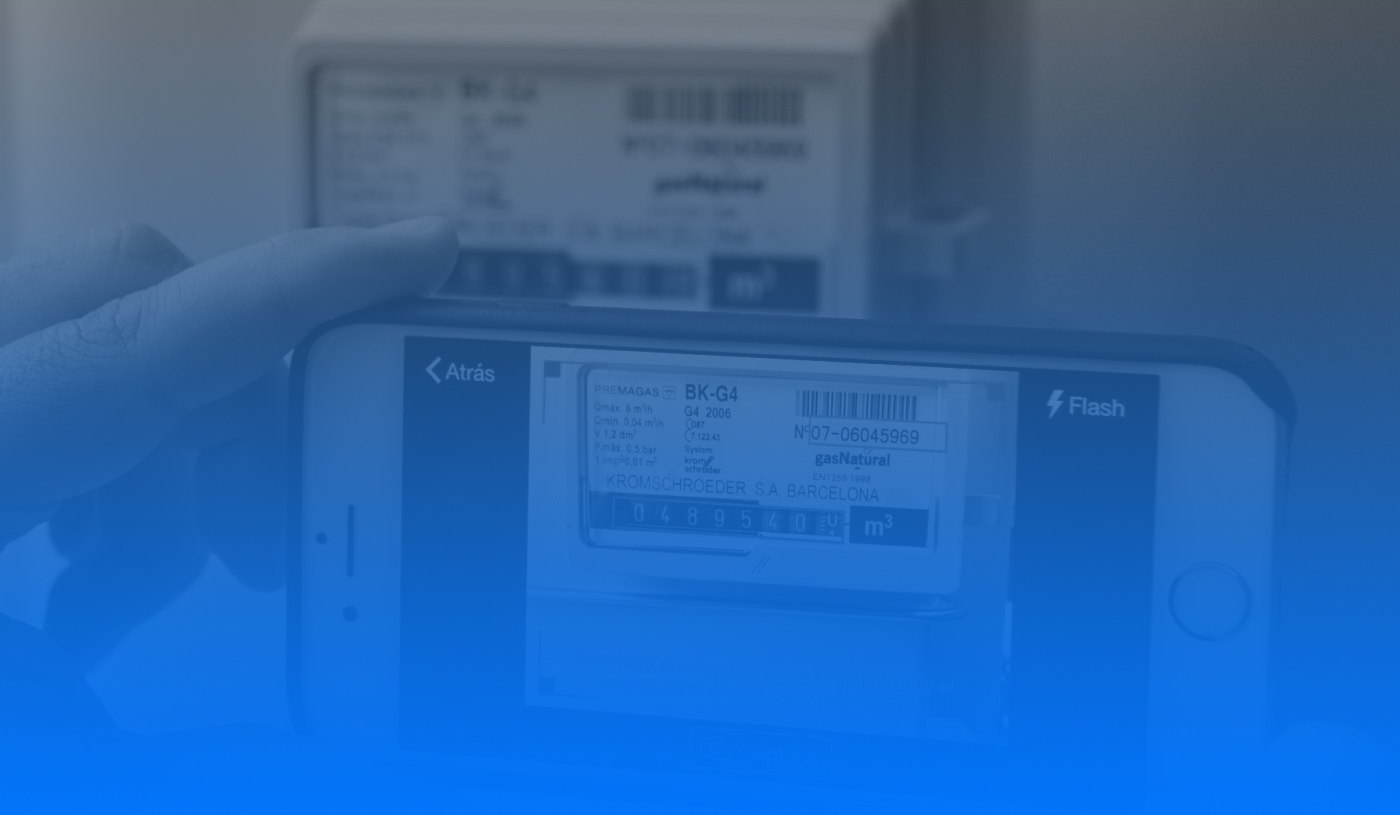
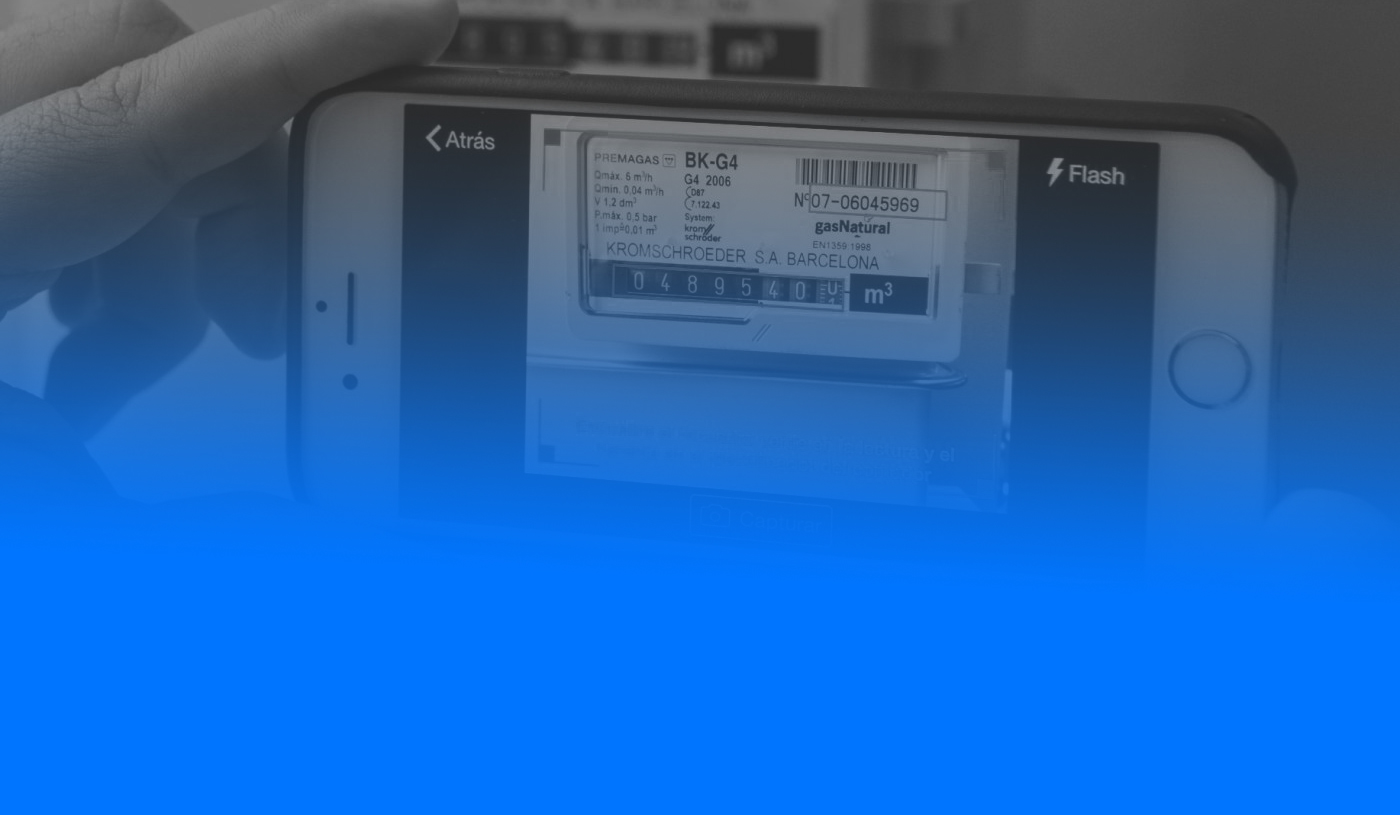
info componente insertado

diff --git a/src/components/Wrapper/Wrapper.scss b/src/components/Wrapper/Wrapper.scss
@@ -1,12 +1,15 @@
-.container {
+@import '../../../colors.scss';
 
-    height: 50vh;
+
+.Fototitulo {
+
+    height: 40vh;
     background-image: url(/img/captura-contador-gas-azul-v2.jpg);
     background-size: cover;
 
     h1 {
-        font-family: 'GalanoNormal', sans-serif;
-        font-size: 4em;
+        font-family: 'GalanoMedium', sans-serif;
+        font-size: 3em;
         line-height: 1em;
         text-align: left;
         width: 70%;

diff --git a/src/components/Info/Info.jsx b/src/components/Info/Info.jsx
@@ -1,0 +1,17 @@
+import React from 'react'
+
+
+
+const Info = () => {
+
+    return (
+
+        <div className="container p-3">
+
+            <h2>Desde el móvil puedes compartir tu lectura del contador de forma rápida y, sobre todo, muy sencilla. Como sabes, lo más recomendable es hacerlo cada dos meses.</h2>
+            
+        </div>
+    )
+}
+
+export default Info;

diff --git a/src/App.js b/src/App.js
@@ -3,6 +3,7 @@ import './App.css';
 
 import Header from './components/Header/Header'
 import Wrapper from './components/Wrapper/Wrapper'
+import Info from './components/Info/Info'
 
 function App() {
   return (
@@ -11,6 +12,10 @@ function App() {
       <Header />
 
       <Wrapper />
+
+      <Info />
+
+
 
       
     </div>

diff --git a/src/index.css b/src/index.css
@@ -15,9 +15,7 @@
 
 body {
   margin: 0;
-  font-family: -apple-system, BlinkMacSystemFont, 'Segoe UI', 'Roboto', 'Oxygen',
-    'Ubuntu', 'Cantarell', 'Fira Sans', 'Droid Sans', 'Helvetica Neue',
-    sans-serif;
+  font-family: 'GalanoNormal';
   -webkit-font-smoothing: antialiased;
   -moz-osx-font-smoothing: grayscale;
 }

diff --git a/src/components/Wrapper/Wrapper.jsx b/src/components/Wrapper/Wrapper.jsx
@@ -5,7 +5,7 @@ const Wrapper = () => {
 
     return (
 
-        <div className="container d-flex p-5 align-items-end">
+        <div className="Fototitulo container d-flex p-5 align-items-end">
 
             <h1>Comparte tu lectura del contador con nosotros</h1>
 

diff --git a/src/components/Info/Info.scss b/src/components/Info/Info.scss
@@ -1,0 +1,6 @@
+@import '../../../colors.scss';
+
+
+* {
+    color: $raisin-black;
+}
